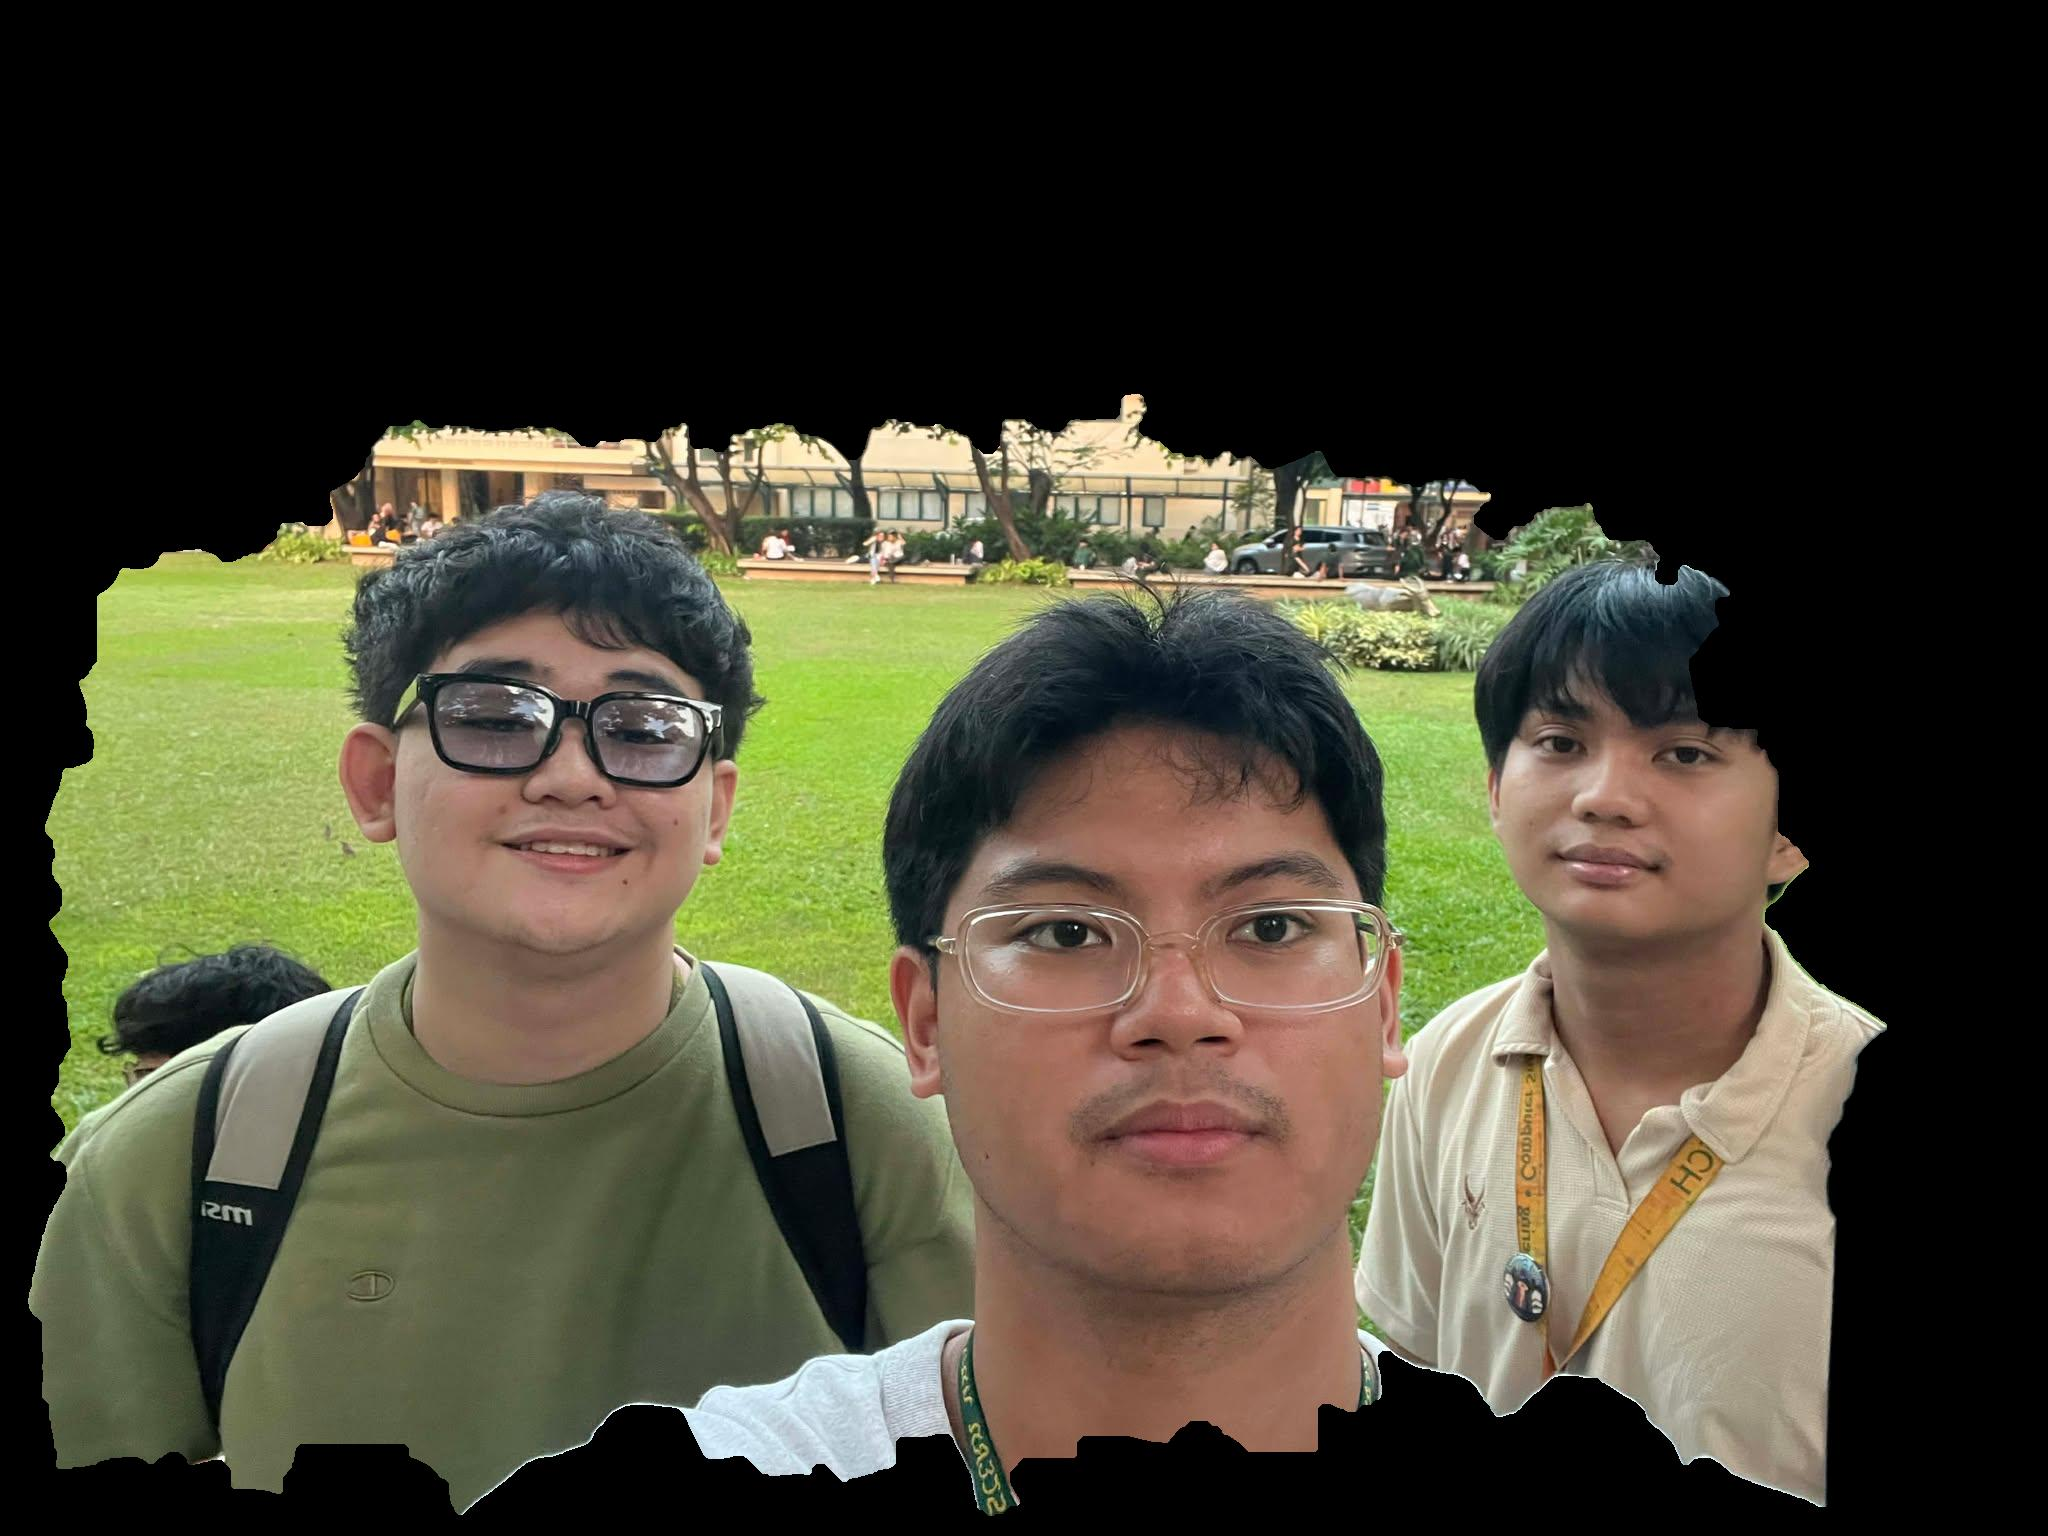
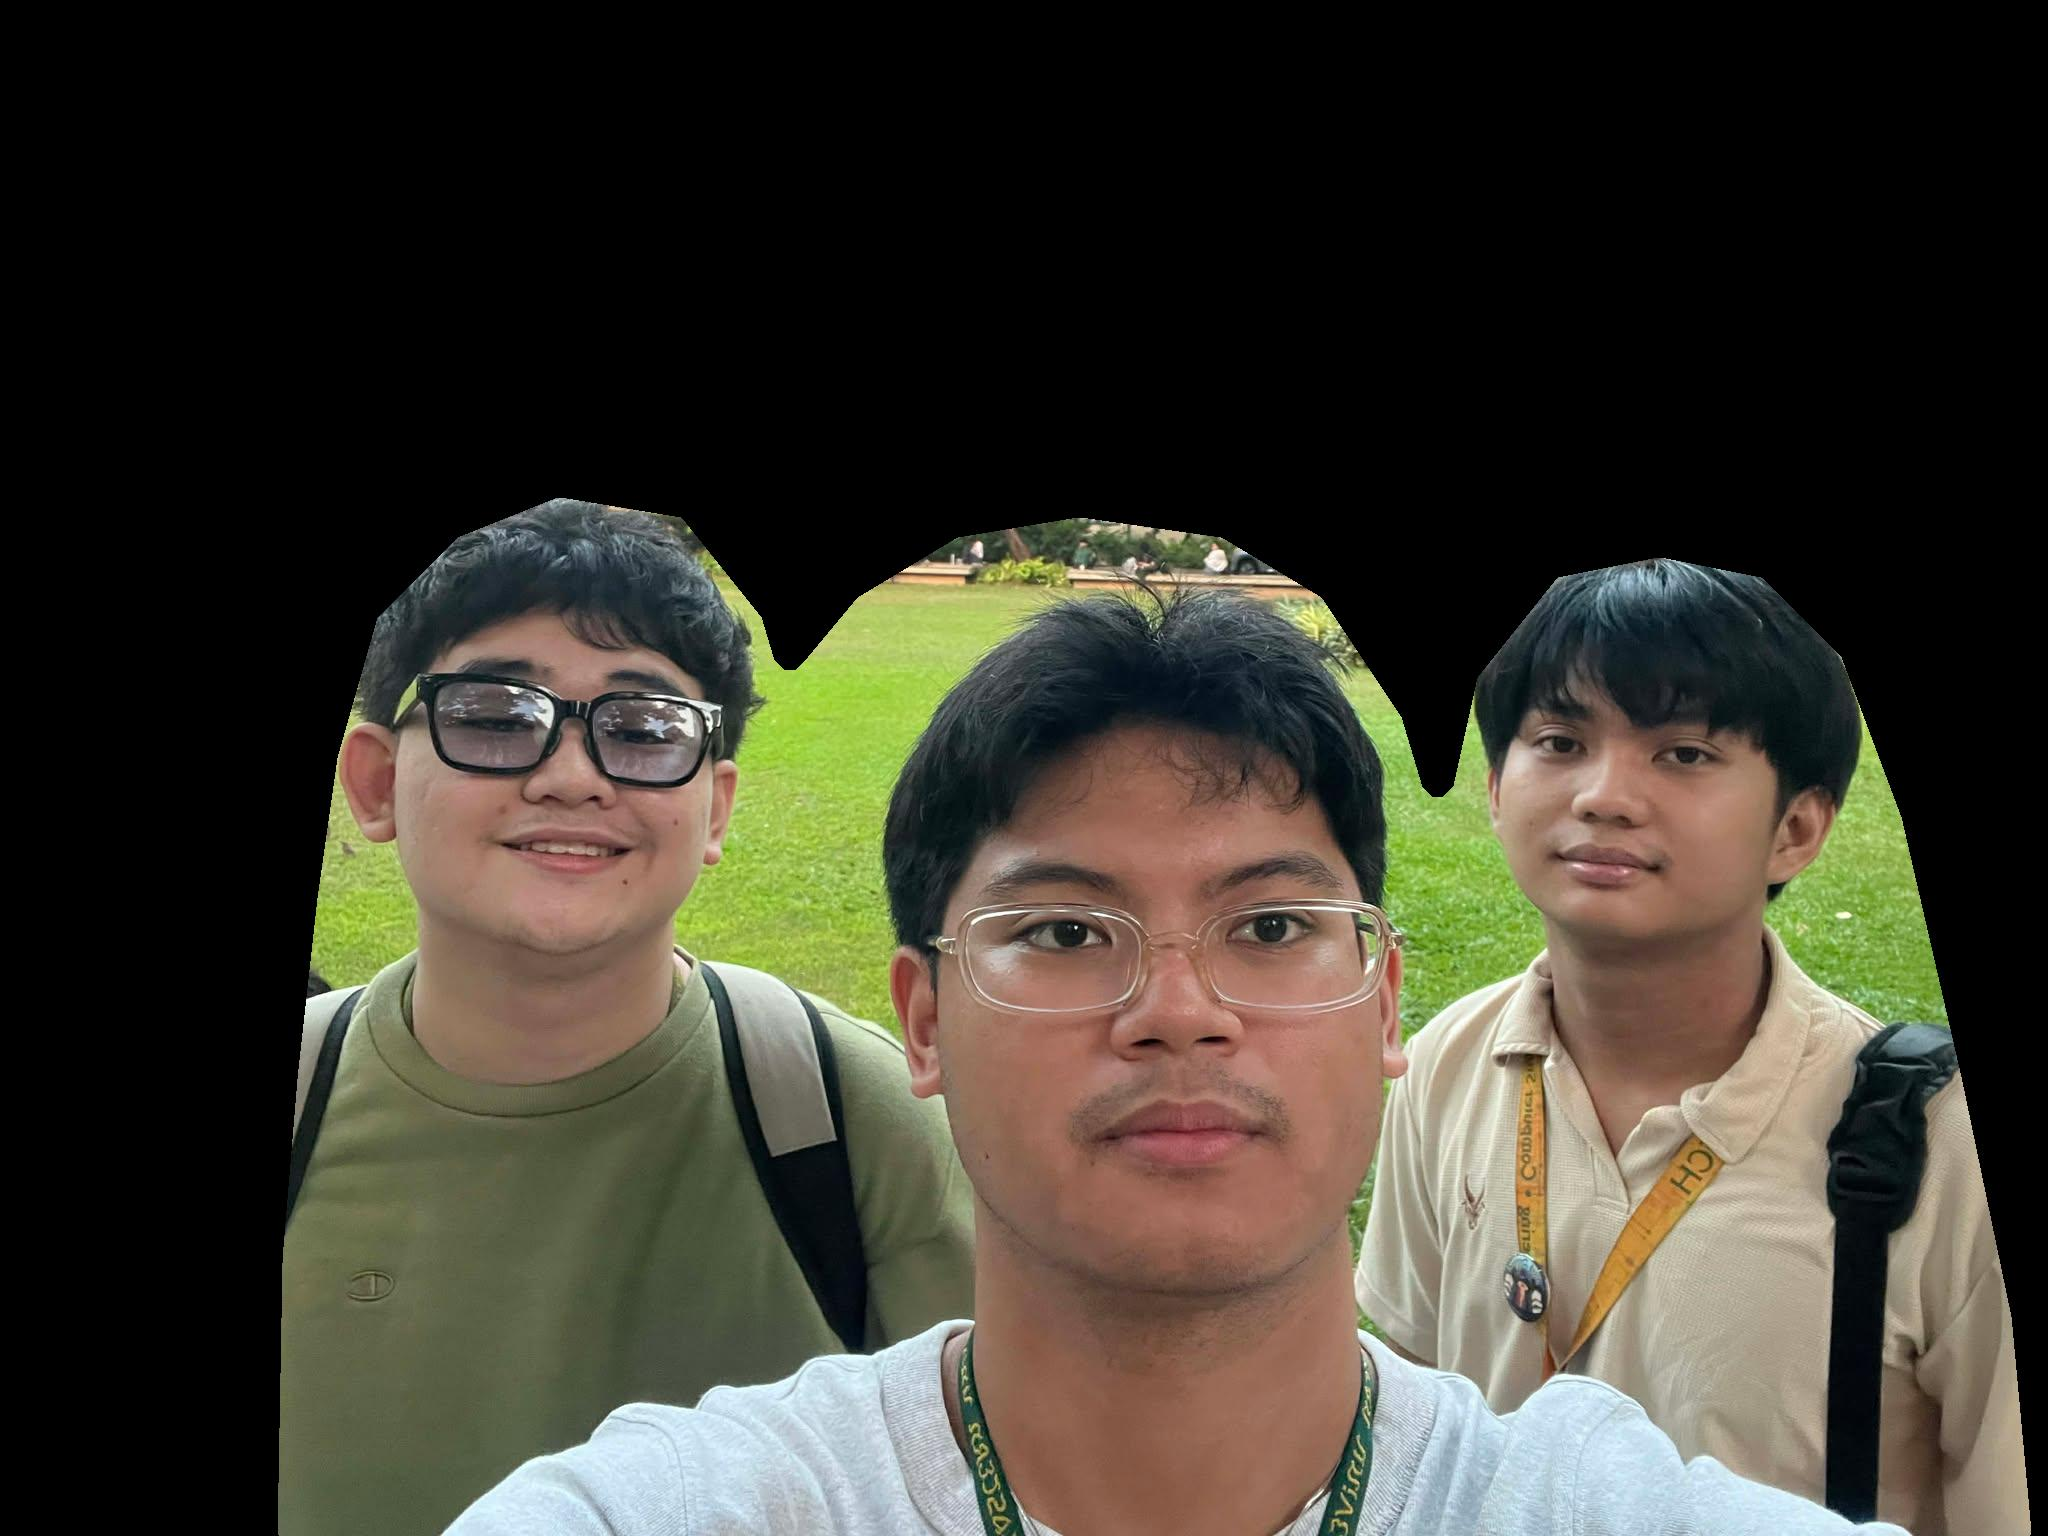
task1img1-notdone

Changed region(s): [[0.0, 0.25, 1.0, 1.0]]

diff --git a/task1_image2.m b/task1_image2.m
@@ -1,5 +1,5 @@
 %% TASK 1 - IMAGE 2
-% Make only the 3 people in front golden
+% Segment only the 3 people, then make them golden
 % File: task1_img2.m
 
 clc;
@@ -8,97 +8,97 @@ close all;
 
 %% Load image
 I = imread('MakeUsGolden.jpg');
-[rows, cols, ~] = size(I);
 I_double = im2double(I);
+[rows, cols, ~] = size(I);
 
-%% STEP 1: Build superpixels for GrabCut
-% grabcut needs a label matrix L
-L = superpixels(I, 1200);
+%% STEP 1: Polygon masks for each person
+% These are normalized coordinates based on this image,
+% so they scale correctly if the image size changes.
 
-%% STEP 2: ROI covering the 3 people
-% Everything outside this ROI is treated as background
-roi = false(rows, cols);
-roi(round(rows*0.20):round(rows*0.99), ...
-    round(cols*0.01):round(cols*0.99)) = true;
+leftPts = [ ...
+    0.1367 0.9993
+    0.1392 0.8203
+    0.1465 0.7031
+    0.1562 0.5859
+    0.1660 0.4948
+    0.1855 0.4036
+    0.2246 0.3516
+    0.2734 0.3255
+    0.3320 0.3385
+    0.3711 0.4036
+    0.4004 0.5339
+    0.4199 0.6771
+    0.4395 0.8594
+    0.4541 0.9993
+];
 
-%% STEP 3: Sure foreground mask
-% Smaller boxes inside each person so the algorithm knows
-% these regions definitely belong to the subjects
+centerPts = [ ...
+    0.2734 0.9993
+    0.2832 0.8854
+    0.3027 0.7552
+    0.3320 0.6185
+    0.3711 0.4688
+    0.4199 0.3906
+    0.4688 0.3516
+    0.5273 0.3385
+    0.5957 0.3516
+    0.6445 0.3906
+    0.6836 0.4688
+    0.7129 0.5990
+    0.7373 0.7552
+    0.7568 0.8854
+    0.7715 0.9993
+];
 
-foremask = false(rows, cols);
+rightPts = [ ...
+    0.6543 0.9993
+    0.6641 0.8464
+    0.6836 0.7161
+    0.7031 0.5599
+    0.7227 0.4427
+    0.7617 0.3776
+    0.8105 0.3646
+    0.8594 0.3776
+    0.8984 0.4297
+    0.9277 0.5339
+    0.9570 0.7031
+    0.9814 0.8594
+    0.9912 0.9993
+];
 
-% LEFT person - inner torso + face/head
-foremask(round(rows*0.49):round(rows*0.86), ...
-         round(cols*0.05):round(cols*0.22)) = true;
-foremask(round(rows*0.41):round(rows*0.57), ...
-         round(cols*0.06):round(cols*0.19)) = true;
+% Convert normalized points to pixel coordinates
+leftX   = round(leftPts(:,1)   * cols);
+leftY   = round(leftPts(:,2)   * rows);
+centerX = round(centerPts(:,1) * cols);
+centerY = round(centerPts(:,2) * rows);
+rightX  = round(rightPts(:,1)  * cols);
+rightY  = round(rightPts(:,2)  * rows);
 
-% CENTER person - inner torso + face/head
-foremask(round(rows*0.50):round(rows*0.91), ...
-         round(cols*0.31):round(cols*0.50)) = true;
-foremask(round(rows*0.35):round(rows*0.56), ...
-         round(cols*0.30):round(cols*0.48)) = true;
+% Create masks
+maskLeft   = poly2mask(leftX, leftY, rows, cols);
+maskCenter = poly2mask(centerX, centerY, rows, cols);
+maskRight  = poly2mask(rightX, rightY, rows, cols);
 
-% RIGHT person - inner torso + face/head
-foremask(round(rows*0.49):round(rows*0.85), ...
-         round(cols*0.68):round(cols*0.82)) = true;
-foremask(round(rows*0.39):round(rows*0.56), ...
-         round(cols*0.67):round(cols*0.82)) = true;
+%% STEP 2: Combine masks
+finalMask = maskLeft | maskCenter | maskRight;
 
-%% STEP 4: Sure background mask
-% Mark obvious background so the result does not spread too much
-
-backmask = false(rows, cols);
-
-% Top band: sky/building/trees
-backmask(1:round(rows*0.22), :) = true;
-
-% Very thin left/right borders
-backmask(:, 1:round(cols*0.01)) = true;
-backmask(:, round(cols*0.99):end) = true;
-
-% Upper-right tree/building edge
-backmask(round(rows*0.18):round(rows*0.45), ...
-         round(cols*0.88):cols) = true;
-
-% Keep foreground seeds from being overwritten
-backmask(foremask) = false;
-
-%% STEP 5: GrabCut segmentation
-BW = grabcut(I, L, roi, foremask, backmask, 'MaximumIterations', 5);
-
-%% STEP 6: Cleanup
-BW = imfill(BW, 'holes');
-BW = bwareaopen(BW, 2500);
-BW = imclose(BW, strel('disk', 11));
-BW = imopen(BW, strel('disk', 3));
-
-%% STEP 7: Keep only components that overlap the foreground seeds
-cc = bwconncomp(BW);
-finalMask = false(size(BW));
-
-for k = 1:cc.NumObjects
-    pix = cc.PixelIdxList{k};
-    if any(foremask(pix))
-        finalMask(pix) = true;
-    end
-end
-
-%% STEP 8: Final face/hair-friendly refinement
+%% STEP 3: Smooth and refine mask
+finalMask = imclose(finalMask, strel('disk', 18));
 finalMask = imfill(finalMask, 'holes');
-finalMask = imclose(finalMask, strel('disk', 9));   % closes hair gaps
-finalMask = imdilate(finalMask, strel('disk', 2));  % recovers edges
-finalMask = imfill(finalMask, 'holes');
+finalMask = imopen(finalMask, strel('disk', 4));
 
-%% STEP 9: Feather for smoother color blending
+% Slight dilation so edges of hair / shoulders are not cut
+finalMask = imdilate(finalMask, strel('disk', 3));
+
+%% STEP 4: Feather mask for smoother blending
 featherMask = imgaussfilt(double(finalMask), 8);
 
-%% STEP 10: Preview detected people only
+%% STEP 5: Detected people only preview
 maskRGB = repmat(finalMask, [1 1 3]);
 I_detected = I;
 I_detected(~maskRGB) = 0;
 
-%% STEP 11: Golden recolor only on the masked people
+%% STEP 6: Make only the people golden
 I_gold = I_double;
 
 goldR = min(I_double(:,:,1) + 0.28, 1);
@@ -109,11 +109,11 @@ I_gold(:,:,1) = (1 - featherMask).*I_double(:,:,1) + featherMask.*goldR;
 I_gold(:,:,2) = (1 - featherMask).*I_double(:,:,2) + featherMask.*goldG;
 I_gold(:,:,3) = (1 - featherMask).*I_double(:,:,3) + featherMask.*goldB;
 
-I_gold_uint8 = im2uint8(I_gold);
+%% STEP 7: Convert outputs
 mask_uint8 = uint8(finalMask) * 255;
-seedPreview = uint8(foremask | backmask) * 255;
+I_gold_uint8 = im2uint8(I_gold);
 
-%% STEP 12: Show results
+%% STEP 8: Show results
 figure('Name', 'TASK 1 - IMAGE 2', 'NumberTitle', 'off');
 
 subplot(2,3,1);
@@ -121,8 +121,8 @@ imshow(I);
 title('Original');
 
 subplot(2,3,2);
-imshow(foremask);
-title('Foreground Seeds');
+imshow(maskLeft | maskCenter | maskRight);
+title('Person Masks');
 
 subplot(2,3,3);
 imshow(finalMask);
@@ -140,23 +140,22 @@ subplot(2,3,6);
 imshow(I_gold_uint8);
 title('Golden People Only');
 
-%% STEP 13: Save outputs
+%% STEP 9: Save outputs
 imwrite(I_detected, 'task1_img2_detected_people.jpg');
 imwrite(mask_uint8, 'task1_img2_mask.jpg');
 imwrite(I_gold_uint8, 'task1_img2_golden_people.jpg');
 
 %% Console output
-fprintf('==============================================\\n');
-fprintf('         PROJECT IN IMAGE PROCESSING\\n');
-fprintf('==============================================\\n');
-fprintf(' Task       : Task 1 - Image 2\\n');
-fprintf(' Process    : GrabCut People Segmentation + Golden Recolor\\n');
-fprintf(' Output     : Completed successfully\\n');
-fprintf('==============================================\\n');
-fprintf(' Applied Processing:\\n');
-fprintf(' - Superpixel-based GrabCut segmentation\\n');
-fprintf(' - Foreground and background seeding\\n');
-fprintf(' - Morphological cleanup\\n');
-fprintf(' - Face/hair-friendly mask refinement\\n');
-fprintf(' - Feathered golden recoloring\\n');
-fprintf('==============================================\\n');
+fprintf('==============================================\n');
+fprintf('         PROJECT IN IMAGE PROCESSING\n');
+fprintf('==============================================\n');
+fprintf(' Task       : Task 1 - Image 2\n');
+fprintf(' Process    : Polygon-based people segmentation + golden recolor\n');
+fprintf(' Output     : Completed successfully\n');
+fprintf('==============================================\n');
+fprintf(' Applied Processing:\n');
+fprintf(' - 3 person polygon masks\n');
+fprintf(' - Mask smoothing and filling\n');
+fprintf(' - Edge feathering\n');
+fprintf(' - Golden recoloring of people only\n');
+fprintf('==============================================\n');
